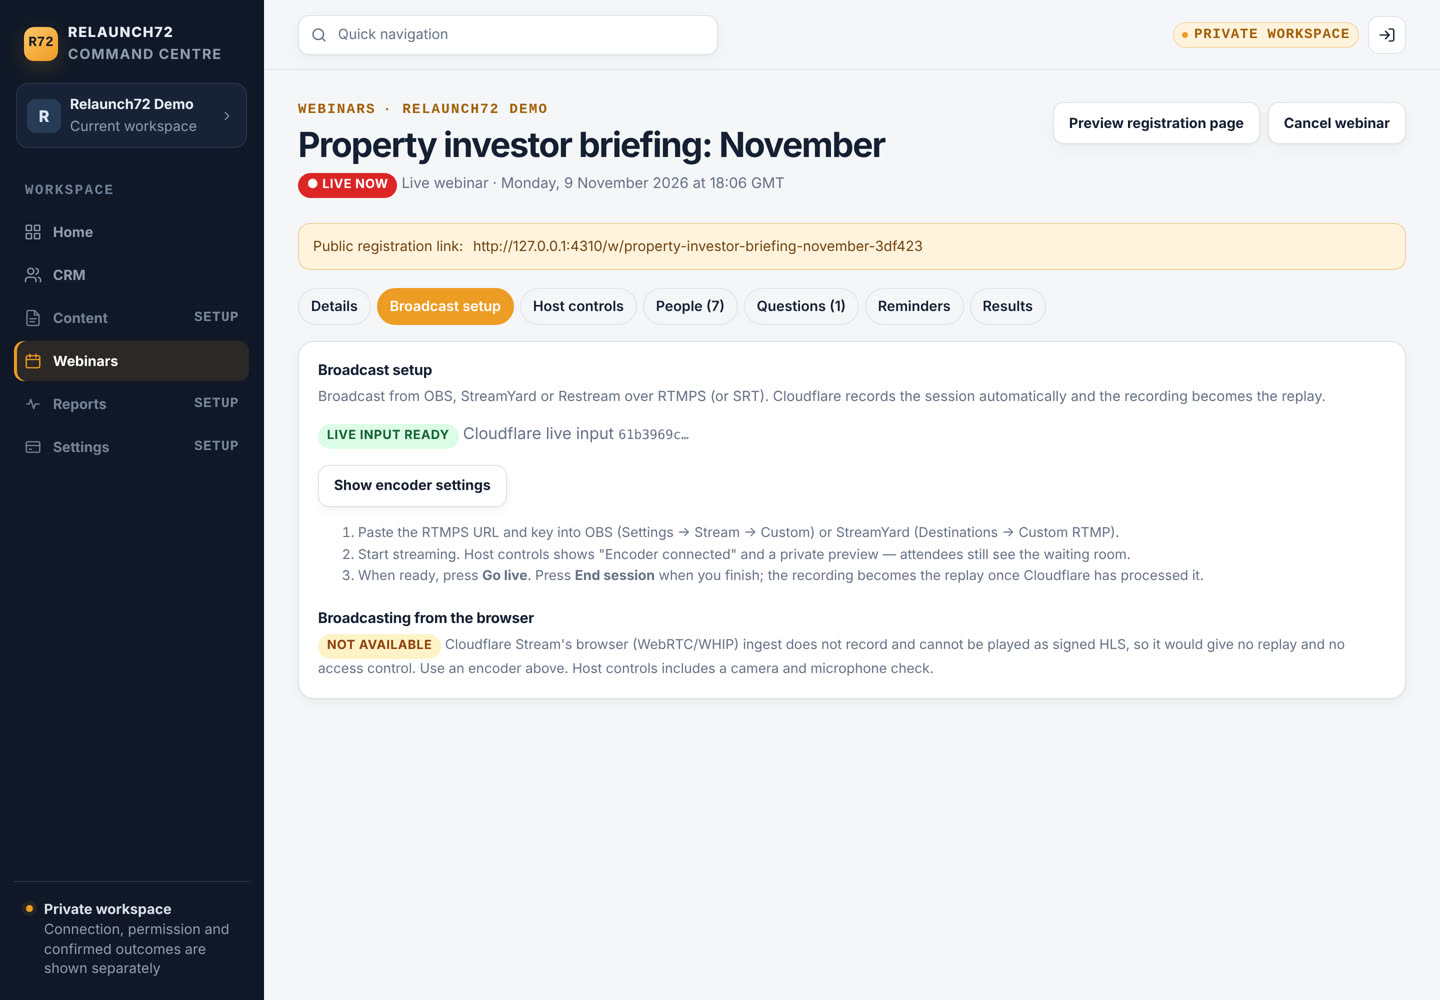
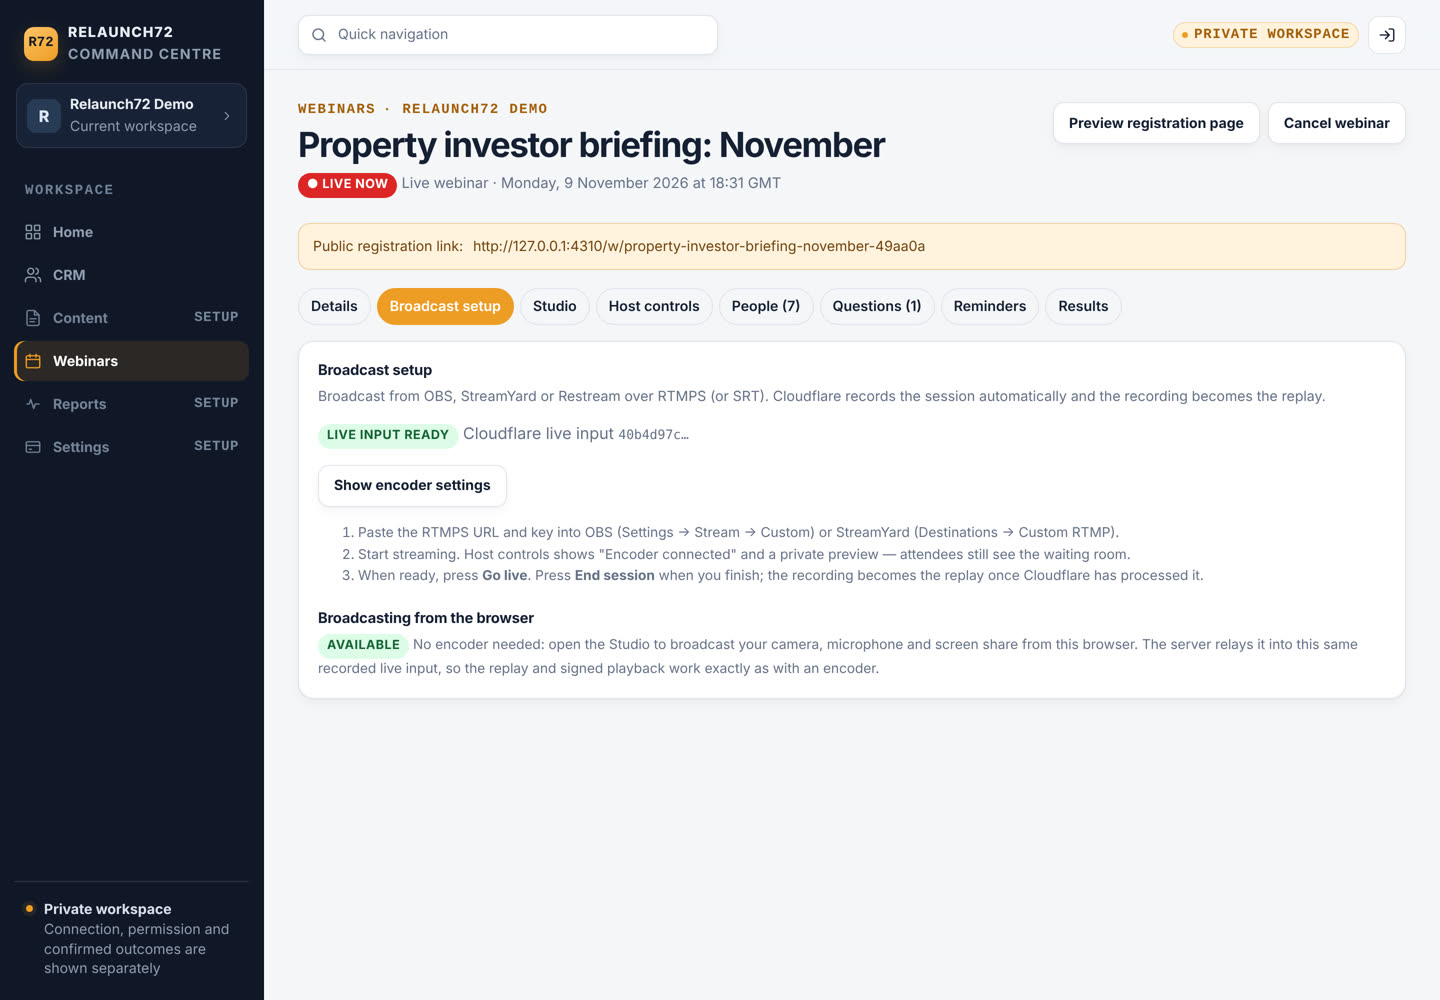
Document the browser studio, its limits and the ffmpeg hosting decision
Claude-Session: https://claude.ai/code/session_01LReXhJakn8pa2r1EHjVsaE

diff --git a/docs/webinars.md b/docs/webinars.md
@@ -17,6 +17,8 @@ Postmark HTTP boundaries. **Not yet proven against a real Cloudflare account** (
 * **Attendees:** `/w/<public-key>` (registration), `/registered`, `/link` (email me my link), `/room`,
   `/calendar.ics`, on the canonical app host and on the MHP app host (`mhp/mount.ts`).
 * **Cloudflare webhook:** `POST /api/webinars/stream-webhook`.
+* **Browser studio:** the *Studio* tab of a live webinar, and its upload channel `GET /api/webinars/studio`
+  (WebSocket, one-time ticket).
 
 If the database migration or Cloudflare settings are missing, the page shows exactly which **names** are
 missing and what each enables. Nothing is faked and nothing 404s.
@@ -44,25 +46,46 @@ missing and what each enables. Nothing is faked and nothing 404s.
   with `recording.mode: automatic` and `requireSignedURLs: true` → attendees watch signed HLS. Cloudflare
   records the session; after **End session** the worker finds the recording (`GET /stream?live_input_id=`),
   and the webhook or poll promotes it to the replay.
-* **Not used:** Cloudflare Stream's WebRTC (WHIP/WHEP) path. In the API shapes reviewed it does not record and
-  cannot be played as signed HLS, so it would give no replay and no access control. The Broadcast setup tab
-  says so plainly under *Broadcasting from the browser — Not available*; there is no working-looking button.
+* **Not used:** Cloudflare Stream's own WebRTC (WHIP/WHEP) ingest. In the API shapes reviewed it does not
+  record and cannot be played as signed HLS, so it would give no replay and no access control.
 
-### Hosting from the browser (camera, microphone, screen share) with recording
+### Browser studio: host with camera, microphone and screen share, no OBS
 
-Achievable without OBS, and without giving up recording or signed playback, by adding a **browser studio**
-that feeds the same recorded live input:
+The *Studio* tab broadcasts straight from the host's browser into the same recorded live input, so recording,
+replay, signed playback and every room state work exactly as with an encoder.
 
-1. The host page captures camera, microphone and screen (`getUserMedia` / `getDisplayMedia`) and composites
-   them on a canvas (layouts: camera only, screen + camera inset, side by side).
-2. `MediaRecorder` streams the composite as H.264/Opus chunks over a WebSocket to the orchestrator.
-3. A per-session relay process (ffmpeg, video copied, audio to AAC) pushes RTMPS to the webinar's existing
-   Cloudflare live input. Everything downstream is unchanged: recording, replay, signed HLS, room states.
+1. The page captures camera and microphone (`getUserMedia`) and, optionally, a screen, window or tab with its
+   audio (`getDisplayMedia`). It composites them on a canvas: *Camera*, *Screen + camera* (inset),
+   *Side by side* or *Screen only*. Mic mute, camera off, device pickers and a level meter are included.
+   What the canvas shows is exactly what attendees see.
+2. **Start sending** asks the portal for a one-time ticket (owner/admin, CSRF-checked, 60 s, single use) and
+   opens a same-origin WebSocket. `MediaRecorder` sends H.264 video with 2-second keyframes and Opus audio in
+   half-second chunks.
+3. The server relay (`src/webinars/studio.ts`) runs one ffmpeg per broadcast: video **copied** (never
+   re-encoded, so CPU stays small), audio to AAC, pushed over RTMPS to the webinar's Cloudflare live input.
+   The stream key is looked up server-side and never reaches the browser; ffmpeg output is redacted before it
+   is logged or shown.
+4. Host flow on the same page: Start sending (private rehearsal; Cloudflare shows *Encoder connected*) →
+   **Go live** → **End session** → Stop sending. The page shows the browser's state and Cloudflare's own view
+   side by side, so a working browser is never mistaken for a confirmed broadcast.
 
-Trade-offs to accept before building it: one ffmpeg process per live session on the app host (small CPU, the
-host's upload bandwidth passes through our server), ffmpeg must be installed in the Render image, and latency
-is HLS latency (roughly 10–20 s), as today. The alternative of Cloudflare's separate real-time products
-(Realtime SFU / RealtimeKit) would mean a new paid product and was not evaluated here.
+Behaviour and limits:
+
+* Browsers: Chrome, Edge and Safari on a computer. A browser that cannot record H.264 (for example Firefox) is
+  told so and offered the encoder route; nothing is transcoded on the server.
+* The compositor is driven by a worker timer, so switching to another tab or app to present keeps the
+  broadcast running.
+* Closing the tab or losing the connection stops sending; attendees see *Live · reconnecting* until the host
+  presses Start sending again. Cloudflare records each connection separately, so a reconnect mid-session
+  splits the recording (the replay uses the longest one; see Known gaps).
+* Bounds: `WEBINAR_STUDIO_MAX_SESSIONS` concurrent relays per instance (default 1), `WEBINAR_STUDIO_MAX_MINUTES`
+  per broadcast (default 240), 16 MB server-side backlog and 32 MB browser backlog before it stops with a plain
+  "your upload cannot keep up" message, 4 MB frame and 8 MB message limits on the channel.
+* Latency is HLS latency (roughly 10–20 s), as with an encoder.
+* **Server requirement:** ffmpeg with RTMPS output and an AAC encoder. The server checks this at start-up and
+  the setup panel, Broadcast setup and Studio tabs say exactly what is missing. Without it everything else
+  works and encoders remain available.
+* Cloudflare's separate real-time products (Realtime SFU / RealtimeKit) would be a new paid product and were not used.
 
 ## Configuration (names only — never commit values)
 
@@ -81,6 +104,8 @@ is HLS latency (roughly 10–20 s), as today. The alternative of Cloudflare's se
 | `WEBINAR_PUBLIC_ORIGIN` / `WEBINAR_WORKSPACE_ORIGINS` | Origin for emailed links, globally / per brand (e.g. the MHP app host). |
 | `WEBINAR_MAX_LIVE_INPUTS_PER_WORKSPACE` (2), `WEBINAR_MAX_UPLOAD_MINUTES` (240), `WEBINAR_RECORDING_RETENTION_DAYS` | Cost bounds. |
 | `WEBINAR_WORKER_ENABLED` | `false` stops the in-process worker on an instance. |
+| `WEBINAR_STUDIO_FFMPEG` | Path to ffmpeg for the browser studio (default `ffmpeg` on PATH). |
+| `WEBINAR_STUDIO_MAX_SESSIONS` (1), `WEBINAR_STUDIO_MAX_MINUTES` (240) | Browser-studio bounds per instance. |
 | `DATABASE_CONTENT_COMMAND_URL` | Existing `r72_content_command` login (reused; no new role). |
 
 ### Cloudflare one-time setup (owner)
@@ -130,6 +155,8 @@ reachable from the build environment. Re-check against current docs during the l
 |---|---|---|
 | Source | `npm run typecheck`; unit tests `test/webinars.test.ts` (DST, room state machine, access tokens, config blockers, sender isolation, settings sanitising, Stream request shapes, error classes, tus host check, JWT verification, webhook HMAC window, contrast) | pass |
 | Integration | `test/db/native-webinars.integration.test.ts` (service + worker on real roles/RLS) and `test/db/native-webinars-http.integration.test.ts` (real routers over HTTP: menu, CSRF, cross-site refusal, viewer/other-brand refusal, credential exposure, cookie scoping, live → replay, webhook replay, Q&A, CTA, CSV) on a disposable PostgreSQL | pass |
+| Studio relay | `test/webinars-studio.test.ts`: real ffmpeg relays browser-style H.264/Opus WebM over the WebSocket into a local RTMP receiver standing in for Cloudflare; output is H.264 + AAC; the key never appears in messages or logs; tickets are single-use and same-origin; Cloudflare-only ingest; unmasked/oversized frames refused. HTTP: owner-only tickets, other brand and viewer refused, no ingest address or key in the page or JSON, honest page when ffmpeg is missing. | pass |
+| Studio in a real browser | Chromium (fake camera/mic, screen share) → Studio → Start sending → relay → local RTMP receiver: 14 s received as H.264 1280×720 + AAC, keyframes every ~2 s, no frame gap while the tab was in the background, Stop in ~0.3 s, no stream key in the page. Manual run (`test/manual-webinars-preview.ts --studio-ingest …`). | pass |
 | Visual | `test/manual-webinars-preview.ts` + Playwright screenshots (nav, host screen, mobile live room, replay, setup-required state). Video in screenshots is a local labelled mock intercepted at the Stream hostname. | captured |
 | Live provider | Real Cloudflare account | **not run** |
 
@@ -153,6 +180,7 @@ Synthetic data on a disposable database; the video is a local mock labelled as s
 | Mobile, autoplay refused (honest play button) | ![](webinars-screenshots/16-mobile-autoplay-refused.jpg) |
 | Mobile replay (second brand, contrast-safe teal) | ![](webinars-screenshots/15-mobile-replay.jpg) |
 | Mobile, provider unavailable (no fake play button) | ![](webinars-screenshots/19-mobile-provider-unavailable.jpg) |
+| Browser studio, sending (screen + camera inset; Chromium fake devices; Cloudflare state from the fake) | ![](webinars-screenshots/21-studio-sending.jpg) |
 
 ## Smallest live test (needs the owner)
 
@@ -161,8 +189,10 @@ Bounded: one live input, one 5-minute private rehearsal, one owner-only registra
 1. Complete the Cloudflare one-time setup on the existing account (no new account or subscription).
 2. Create a draft live webinar for the Relaunch72 workspace, publish it, register with an address on
    `WEBINAR_EMAIL_TEST_RECIPIENTS`.
-3. Broadcast setup → Create live input → Show encoder settings → stream from OBS for 5 minutes. Check Host
-   controls shows *Encoder connected* and the private preview.
+3. Broadcast setup → Create live input. Then either stream from OBS (Show encoder settings), or open the
+   **Studio**, turn on camera and microphone, share a screen and press Start sending, for 5 minutes. Check
+   *Encoder connected* and the private preview. (The studio needs ffmpeg on the server; the setup panel says
+   whether it is there.)
 4. Go live, open the attendee link on a phone, confirm signed playback; reveal the CTA; ask and answer a question.
 5. End session; confirm the replay appears (webhook or poll) and plays on the phone.
 6. Delete the live input and test video in Cloudflare afterwards if not needed. Expected cost: pennies of
@@ -187,7 +217,15 @@ applications, MHP marketing templates and `MHP_MARKETING_MODE`) is **not changed
 ## Known gaps
 
 * Live Cloudflare acceptance (above). API shapes verified against SDK typings, not live responses.
-* Browser studio (camera/mic/screen without OBS) is designed above, not built.
+* **ffmpeg on Render (owner decision):** the web service runs on Render's native Node runtime, and whether that
+  image ships ffmpeg with RTMPS is unverified. The setup panel will say. If it does not, choose one: switch the
+  web service to Render's Docker runtime with `apt-get install ffmpeg`, or supply a reviewed static ffmpeg and
+  point `WEBINAR_STUDIO_FFMPEG` at it. The `@ffmpeg-installer` npm packages were rejected (ffmpeg 4.1 from 2018
+  and an install script the supply-chain gate forbids).
+* The studio relay lives in the web process that issued the ticket. This is correct for the current single
+  instance; running more web instances would need sticky sessions for `/api/webinars/studio`.
+* A studio reconnect mid-session splits Cloudflare's recording; the replay keeps the longest part. Joining the
+  parts is not built.
 * No live chat (deliberately: Q&A only, no fake chat).
 * Rate limits for public registration/link requests are per process; with several web instances the effective
   limit multiplies (database-backed limits cover questions and signals).

diff --git a/docs/codex-handoff/09-WEBINARS-MODULE.md b/docs/codex-handoff/09-WEBINARS-MODULE.md
@@ -16,10 +16,10 @@ recovery, evidence, the smallest live test and the MHP cutover plan. This page i
 | `orchestrator/src/db/migrations/0144_native_webinars.sql` | Tables, RLS, definer functions, grants. |
 | `orchestrator/src/db/webinar-schema.ts` | Migration filename + checksum (renumber here if 0144 collides). |
 | `orchestrator/src/db/runtime-readiness.ts` | 144 cutover and 143 recovery clauses. |
-| `orchestrator/src/webinars/` | `config` (env → blockers), `stream` (Cloudflare Stream client, JWT, webhook verify), `schedule` (DST + room state machine), `access` (attendee tokens/cookies), `service` (all reads/writes), `worker` (jobs: messages, provisioning, reconciliation), `messages` (copy, delivery decision, Postmark), `public-router`/`public-view`/`client-scripts` (attendee pages + room script), `http` (webhook, client key), `colour` (contrast-safe brand colours). |
+| `orchestrator/src/webinars/` | `config` (env → blockers), `stream` (Cloudflare Stream client, JWT, webhook verify), `schedule` (DST + room state machine), `access` (attendee tokens/cookies), `service` (all reads/writes), `worker` (jobs: messages, provisioning, reconciliation), `messages` (copy, delivery decision, Postmark), `public-router`/`public-view`/`client-scripts` (attendee pages + room script), `http` (webhook, client key), `colour` (contrast-safe brand colours), `studio` (browser-studio relay: tickets, ffmpeg, redaction, limits), `websocket` (minimal RFC 6455 endpoint for the studio channel). |
 | `orchestrator/src/portal/webinar-router.ts`, `webinar-view.ts` | Portal pages under `/portal/webinars`. |
-| Wiring | `portal/router.ts`, `portal/ui.ts`, `portal/postgres-platform.ts`, `portal/provision.ts`, `portal/product-profile.ts`, `platform/modules.ts`, `server/app.ts`, `server/index.ts`, `mhp/mount.ts`. |
-| Tests | `test/webinars.test.ts`, `test/db/native-webinars.integration.test.ts`, `test/db/native-webinars-http.integration.test.ts`, shared fixtures `test/db/webinar-harness.ts`, visual preview `test/manual-webinars-preview.ts`. |
+| Wiring | `server/index.ts` also routes HTTP upgrades on `/api/webinars/studio` to the relay. `portal/router.ts`, `portal/ui.ts`, `portal/postgres-platform.ts`, `portal/provision.ts`, `portal/product-profile.ts`, `platform/modules.ts`, `server/app.ts`, `server/index.ts`, `mhp/mount.ts`. |
+| Tests | `test/webinars.test.ts`, `test/webinars-studio.test.ts`, `test/db/native-webinars.integration.test.ts`, `test/db/native-webinars-http.integration.test.ts`, shared fixtures `test/db/webinar-harness.ts`, visual preview `test/manual-webinars-preview.ts`. |
 | Dependency | `hls.js@1.6.19` (served from our origin; SBOM and lock regenerated). |
 
 ## Integration checklist
@@ -27,6 +27,7 @@ recovery, evidence, the smallest live test and the MHP cutover plan. This page i
 1. Resolve the 0144 number against Creative Studio at merge time (see docs/webinars.md).
 2. Deploy order: capable release → migrator → verify ledger/checksum and `/ready` → restart.
 3. Set configuration names on Render (never commit values). Email stays `off` until reviewed.
-4. Owner runs the smallest live test. Record live-provider evidence separately from source evidence.
-5. Keep unrelated email outreach, Apollo, paid advertising and budget optimisation off. Do not recreate the
+4. Decide how ffmpeg (with RTMPS) reaches the web service for the browser studio; the setup panel reports it.
+5. Owner runs the smallest live test. Record live-provider evidence separately from source evidence.
+6. Keep unrelated email outreach, Apollo, paid advertising and budget optimisation off. Do not recreate the
    stopped Apollo automation.

diff --git a/docs/decisions.md b/docs/decisions.md
@@ -693,3 +693,6 @@ Polish pass (same day): the embed got a real design layer — brand tokens with 
 
 **D-068 · Webinars rebuilt natively inside the orchestrator; Cloudflare Stream is the video layer only (supersedes D-067's hosting choice).**
 Owner direction (9 Nov 2026): finish a native, multi-brand webinar platform visible in the existing Growth HQ menu, without moving hosting or the database to Cloudflare and without substituting YouTube, Whereby or Zoom. The D-067 Worker + D1 + Durable Objects prototype is retired (kept in history); its reusable ideas (Stream client, RS256 signed playback, scheduled-recording playhead lock, webhook verification, player) were ported into `orchestrator/src/webinars/`. Data lives in PostgreSQL migration 0144 under FORCE RLS per workspace, reusing the `r72_content_command` identity; registrants reach the CRM through the existing `createLead` command, owner-triggered and idempotent; messages are durable deduplicated jobs sent per brand sender, off by default. Live broadcasting uses RTMPS/SRT into a recording, signed-URL live input; Stream's WebRTC/WHIP path is not offered because it gives no recording and no signed HLS, and the UI says so. A browser studio (camera, microphone, screen share → server relay → the same recorded live input) is designed in docs/webinars.md but not built. MHP's deployed YouTube funnel is untouched; a reversible cutover plan is in docs/webinars.md. Evidence is split: source and disposable-PostgreSQL integration tests pass; live Cloudflare acceptance has not been run.
+
+**D-069 · Browser studio built: hosts broadcast camera, microphone and screen share from the browser, recorded for replay, with no OBS.**
+Owner asked (9 Nov 2026) to host straight from the browser with recording. Cloudflare's own WebRTC/WHIP ingest does not record, so the studio composites in the browser (canvas + Web Audio), records H.264/Opus with `MediaRecorder` and sends it over a ticket-authenticated same-origin WebSocket to an in-process relay that runs ffmpeg (video copied, audio to AAC) into the webinar's existing recorded, signed-URL RTMPS live input. Recording, replay, signed playback and room states are unchanged. The stream key stays server-side; tickets are owner/admin-only, single-use and expire in 60 s; video is never transcoded on the server. A minimal RFC 6455 endpoint was written instead of adding a WebSocket dependency. ffmpeg must exist on the server with RTMPS: the setup panel reports it; whether Render's native runtime ships it is unverified and is an owner decision (Docker runtime or a reviewed static binary via `WEBINAR_STUDIO_FFMPEG`); the 2018 `@ffmpeg-installer` npm binaries were rejected. Proven locally end to end in Chromium into a local RTMP receiver; not yet against Cloudflare.
